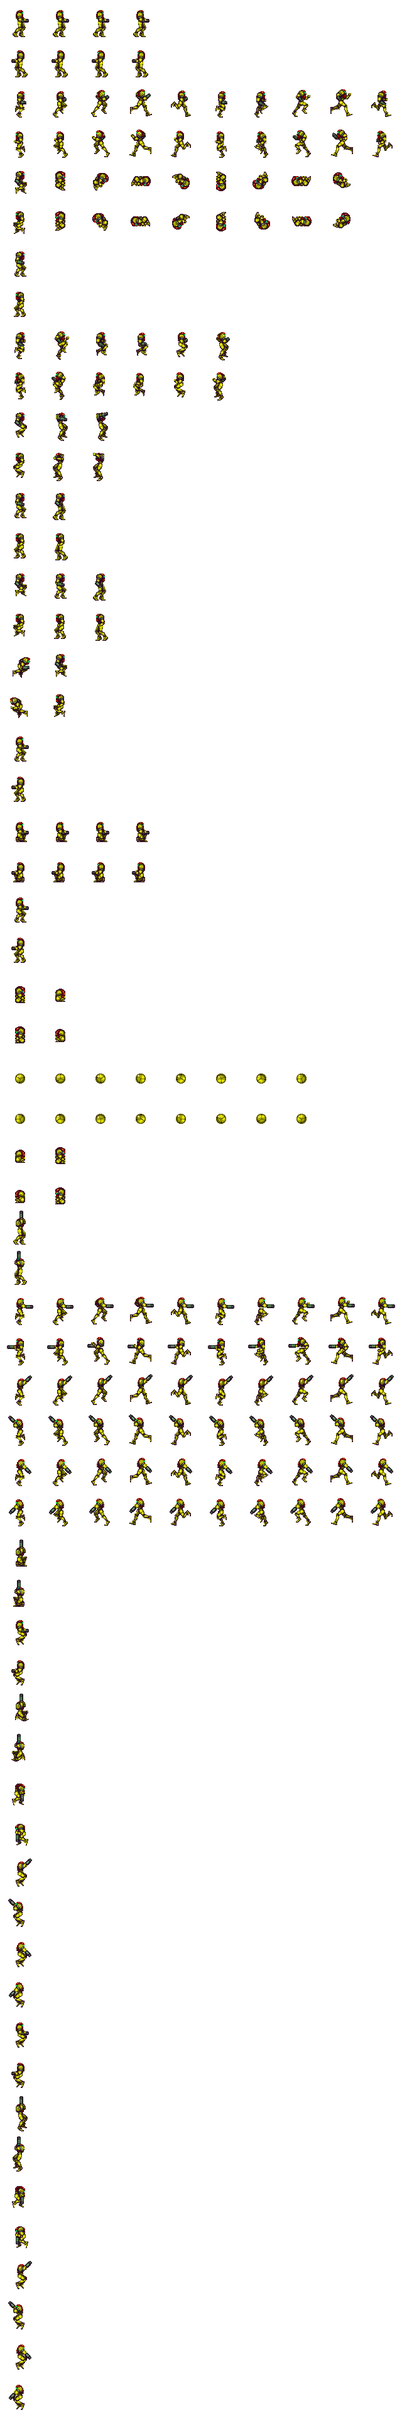
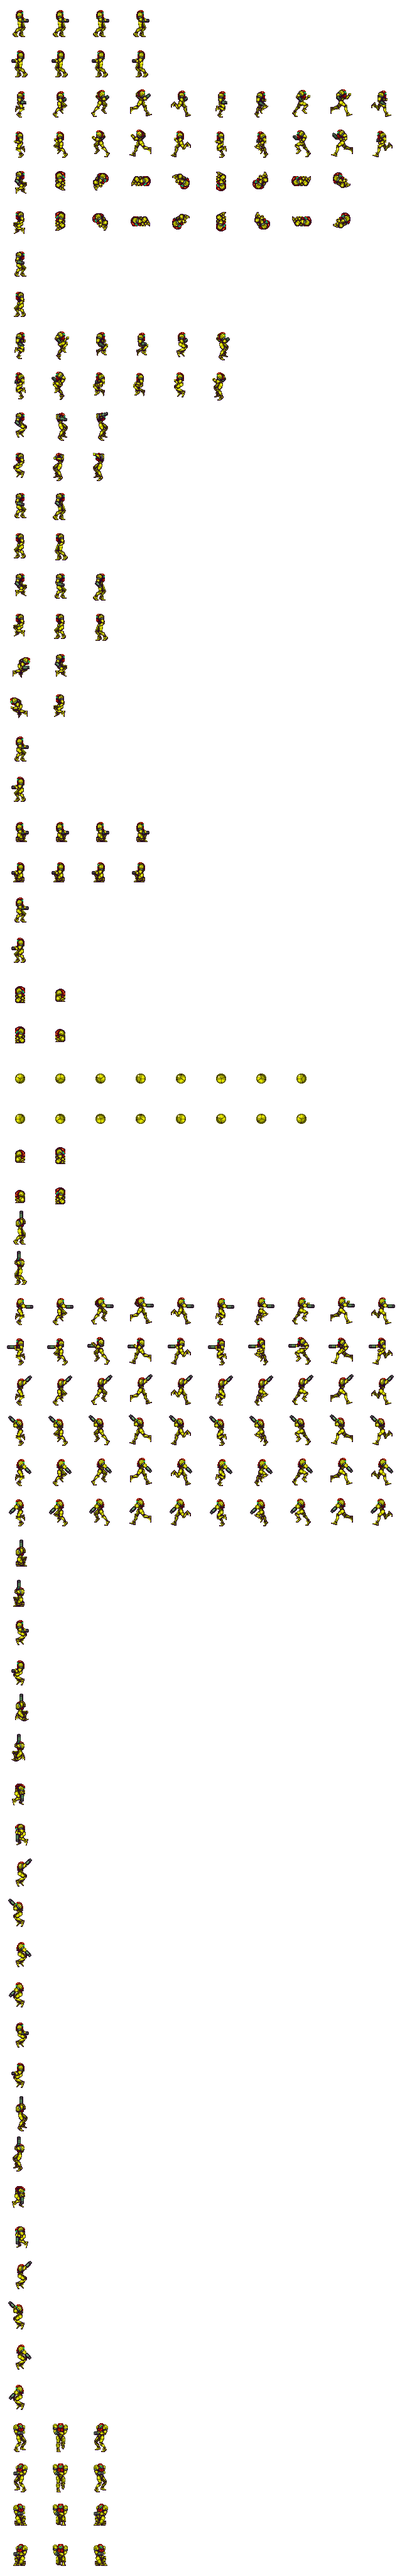
Etapa 3.2.7: anima viradas da Samus no chão e no ar

diff --git a/tests/core_test.c b/tests/core_test.c
@@ -933,6 +933,35 @@ static void beam_from_muzzle(void) {
     assert(!w.beams[0].active);
     puts("PASS beam leaves from the muzzle along the aim, never from inside a wall");
 }
+static void turn_animation(void) {
+    int side, air, t;
+    for (side = 0; side < 2; ++side) for (air = 0; air < 2; ++air) {
+        MmBody b;
+        MmInput opposite = {.axis = side ? 1 : -1, .jump_held = 1};
+        reset(); floor_at(30);
+        mm_body_init(&b, 100, 192, (MmRect){8, 8, 32, 48});
+        mm_tick(&world, &b, idle); b.facing_left = side;
+        if (air) {
+            mm_tick(&world, &b, (MmInput){.jump_pressed = 1, .jump_held = 1});
+            for (t = 0; t < 12; ++t) mm_tick(&world, &b, (MmInput){.jump_held = 1});
+        }
+        for (t = 0; t < MM_TURN_POSE_TICKS; ++t) {
+            mm_tick(&world, &b, opposite);
+            assert(b.turn_pose_ticks == MM_TURN_POSE_TICKS - t && b.turn_pose_left == side);
+            assert(b.grounded == !air);
+        }
+        mm_tick(&world, &b, opposite);
+        assert(!b.turn_pose_ticks && b.facing_left != side);
+        /* Spin and morph cancel a pending normal turn instead of displaying it. */
+        b.turn_pose_ticks = 3; b.spin_jumping = 1; b.grounded = 0; b.vy = -MM_JUMP;
+        mm_tick(&world, &b, (MmInput){.jump_held = 1});
+        assert(!b.turn_pose_ticks);
+        b.turn_pose_ticks = 3; b.ball = 1;
+        mm_tick(&world, &b, idle);
+        assert(!b.turn_pose_ticks);
+    }
+    puts("PASS turn animation: six ticks, old-facing strips on ground and in air; spin/ball cancel");
+}
 static void normal_jump_animation(void) {
     int side, short_hop;
     for (side = 0; side < 2; ++side) for (short_hop = 0; short_hop < 2; ++short_hop) {
@@ -984,6 +1013,7 @@ static void beam_impacts(void) {
     puts("PASS beam impact at swept wall contact, expires after 10 ticks; no impact off screen");
 }
 int main(void) {
+    turn_animation();
     normal_jump_animation();
     slope_spin_takeoff();
     beam_impacts();

diff --git a/src/core/world.c b/src/core/world.c
@@ -54,6 +54,7 @@ void mm_body_init(MmBody *b, int x, int y, MmRect hitbox)
     b->vx = b->vy = 0; b->hitbox = hitbox;
     b->grounded = b->facing_left = b->jumped = 0;
     b->speed = b->run_extra = b->turn = b->slide = b->walking = b->falling = 0;
+    b->turn_pose_ticks = b->turn_pose_left = 0;
     b->spin_jumping = b->shoot_pose_timer = 0;
     b->aim = MM_AIM_FORWARD;
     b->jump_frame = 0; b->jump_frame_ticks = 3;
@@ -276,6 +277,10 @@ static void steer(MmBody *b, int direction, int run_held)
         /* The tick the opposite way is pressed still steers the old way, as the original does; a body at
            rest on the ground stays put. A spin at rest just faces the new way. */
         b->turn = MM_TURN_TICKS - 1; b->turned = b->slide = 0;
+        if (!b->spin_jumping) {
+            b->turn_pose_ticks = MM_TURN_POSE_TICKS;
+            b->turn_pose_left = b->facing_left;
+        }
         direction = b->grounded && !b->walking ? 0 : facing;
     }
     if (b->grounded && !b->ball) {
@@ -342,6 +347,7 @@ void mm_tick(const MmWorld *w, MmBody *b, MmInput input)
     int moving_before_jump = b->vx != 0, wall_jump, was_grounded = b->grounded, was_crouching = b->crouching;
     int was_ball = b->ball;
     if (b->pose_timer) --b->pose_timer;
+    if (b->turn_pose_ticks) --b->turn_pose_ticks;
     b->jumped = input.jump_pressed && b->grounded;
     /* As in Super Metroid, only a jump while walking spins: from rest, even with a direction pressed on
        the same tick, the jump is a standing one. A jump during a slide, with no direction, still spins. */
@@ -415,6 +421,7 @@ void mm_tick(const MmWorld *w, MmBody *b, MmInput input)
     update_pose(b, was_grounded, was_crouching, was_ball);
     update_jump_animation(b);
     if (b->grounded) b->spin_jumping = 0;
+    if (b->ball || b->spin_jumping || b->pose == MM_POSE_WALL_KICK) b->turn_pose_ticks = 0;
     b->state = body_state(b);
     b->aim = body_aim(b, input);
 }

diff --git a/tests/rom_smoke.c b/tests/rom_smoke.c
@@ -11,6 +11,37 @@ __attribute__((noinline, used, externally_visible)) void mm_smoke_finish(void)
     while (1) SYS_doVBlankProcess();
 }
 
+static int turns(Game *g)
+{
+    int side, air, t, failed = 0;
+    for (side = 0; side < 2; ++side) for (air = 0; air < 2; ++air) {
+        int seen = 0;
+        g->player.facing_left = side;
+        if (air) {
+            for (t = 0; t < 12; ++t) {
+                game_update(g, (MmInput){.jump_pressed = t == 0, .jump_held = 1});
+                SYS_doVBlankProcess();
+            }
+        }
+        for (t = 0; t < MM_TURN_POSE_TICKS; ++t) {
+            game_update(g, (MmInput){.axis = side ? 1 : -1, .jump_held = 1});
+            if (g->player.turn_pose_ticks) {
+                if (g->animation != (air ? PLAYER_ANIM_TURN_AIR_R : PLAYER_ANIM_TURN_R) + side ||
+                    g->sprite->frameInd != (MM_TURN_POSE_TICKS - g->player.turn_pose_ticks) / 2) failed = 1;
+                seen |= 1 << g->sprite->frameInd;
+            }
+            SYS_doVBlankProcess();
+        }
+        /* Return to rest, ready for the next turn. */
+        for (t = 0; t < 100; ++t) {
+            game_update(g, (MmInput){0});
+            SYS_doVBlankProcess();
+        }
+        if (seen != 7 || !g->player.grounded || g->player.turn_pose_ticks) failed = 1;
+    }
+    return failed;
+}
+
 int main(bool hardReset)
 {
     static Game g;
@@ -109,6 +140,7 @@ int main(bool hardReset)
             if ((seen & 60) != 60 || !g.player.grounded) failed = 1;
         }
     }
+    failed |= turns(&g);
     /* A downward beam just above the floor must render all five impact frames, then hide. */
     mm_weapon_init(&g.weapon);
     g.weapon.beams[0] = (MmBeam){.active = 1, .x = g.player.x + 20 * MM_UNIT,

diff --git a/src/game.c b/src/game.c
@@ -83,6 +83,11 @@ static u16 player_row(const MmBody *p)
     };
     u16 side = p->facing_left ? 1 : 0, row;
     bool up = p->aim == MM_AIM_UP || p->aim == MM_AIM_DIAG_UP;
+    /* Turn strips are indexed by the OLD facing. Aim/shoot keep their cannon pose,
+       and a ball, spin or wall kick keeps its own animation. */
+    if (p->turn_pose_ticks && !p->ball && !p->spin_jumping && p->pose != MM_POSE_WALL_KICK &&
+        p->pose != MM_POSE_UNMORPH && p->aim == MM_AIM_FORWARD && !p->shoot_pose_timer)
+        return (p->grounded ? PLAYER_ANIM_TURN_R : PLAYER_ANIM_TURN_AIR_R) + p->turn_pose_left;
     if ((p->aim == MM_AIM_FORWARD && !p->shoot_pose_timer) || p->ball || p->pose == MM_POSE_UNMORPH ||
         p->pose == MM_POSE_SPIN || p->pose == MM_POSE_WALL_KICK)
         row = plain_row(p);
@@ -129,7 +134,10 @@ static void render(Game *g)
             SPR_setAnim(g->sprite, animation);
         g->animation = animation;
     }
-    if (animation == PLAYER_ANIM_JUMP_UP_R + side) {
+    if ((animation & ~1) == PLAYER_ANIM_TURN_R || (animation & ~1) == PLAYER_ANIM_TURN_AIR_R) {
+        SPR_setAutoAnimation(g->sprite, FALSE);
+        SPR_setFrame(g->sprite, (MM_TURN_POSE_TICKS - g->player.turn_pose_ticks) / 2);
+    } else if (animation == PLAYER_ANIM_JUMP_UP_R + side) {
         /* These frames follow the simulation, including PAL's extra ticks, rather than looping. */
         SPR_setAutoAnimation(g->sprite, FALSE);
         SPR_setFrame(g->sprite, g->player.jump_frame);

diff --git a/inc/core/world.h b/inc/core/world.h
@@ -9,6 +9,7 @@
 #define MM_WALK_SNAP 480 /* ...and past 1.875 the walk jumps to MM_SPEED: full speed on the 11th tick. */
 #define MM_DECEL 128 /* -0.5 px/tick when letting go on the ground, turning around or reversing in the air. */
 #define MM_TURN_TICKS 7 /* Turning around on the ground or in a normal jump or fall, the tick it starts on included. */
+#define MM_TURN_POSE_TICKS 6 /* Three original turn frames, two simulation ticks each. */
 #define MM_RUN_ACCEL 16 /* Dash: +1/16 px/tick each tick... */
 #define MM_RUN_EXTRA_MAX 512 /* ...up to +2 (4.75 px/tick in all) after 32 ticks. */
 #define MM_AIR_ACCEL 192 /* +0.75 px/tick in the air and in the ball. */
@@ -62,6 +63,7 @@ typedef struct {
     int grounded, facing_left, jumped;
     int speed, run_extra; /* Base speed along the facing direction and the dash bonus, Q24.8 px/tick. */
     int turn, turned; /* Ticks left turning around, and whether the body already faces the new way. */
+    int turn_pose_ticks, turn_pose_left; /* Visual turn, facing at its start (independent of braking). */
     int slide, walking; /* Ground: sliding after letting go, already walking. */
     int falling; /* In the air without a jump: walked off a ledge. */
     int spin_jumping;

diff --git a/scripts/build_player_sheet.py b/scripts/build_player_sheet.py
@@ -35,7 +35,7 @@ GROUND_ROW = 58
 # The ball and its transitions sit on the same row: the ball box keeps the standing feet, in the air too.
 GROUNDED = {'STAND', 'WALK', 'LAND', 'SPIN_LAND', 'CROUCH_DOWN', 'CROUCH', 'STAND_UP',
             'MORPH', 'BALL', 'UNMORPH', 'AIM_UP', 'WALK_SHOOT', 'WALK_AIM_UP', 'WALK_AIM_DOWN',
-            'CROUCH_AIM_UP'}
+            'CROUCH_AIM_UP', 'TURN'}
 # Actions aligned frame by frame instead of as a whole. The extracted ball frames drift up and down by
 # a pixel from the sheet grid; a rolling ball must not bounce.
 ALIGN_EACH_FRAME = {'BALL'}
@@ -79,6 +79,9 @@ ANIMATIONS = [
     ('FALL_AIM_DOWN', '2D:1', '2E:1', 'D'),
     ('FALL_AIM_DIAG_UP', '6D', '6E', 'DU'),
     ('FALL_AIM_DIAG_DOWN', '6F', '70', 'DD'),
+    # 3.2.7: labels name the facing at the start of the turn.
+    ('TURN', '25', '26'),
+    ('TURN_AIR', '2F', '30'),
 ]
 
 

diff --git a/inc/player_anim.h b/inc/player_anim.h
@@ -65,6 +65,10 @@ enum {
     PLAYER_ANIM_FALL_AIM_DIAG_UP_L, /* pose 6E */
     PLAYER_ANIM_FALL_AIM_DIAG_DOWN_R, /* pose 6F */
     PLAYER_ANIM_FALL_AIM_DIAG_DOWN_L, /* pose 70 */
+    PLAYER_ANIM_TURN_R, /* pose 25 */
+    PLAYER_ANIM_TURN_L, /* pose 26 */
+    PLAYER_ANIM_TURN_AIR_R, /* pose 2F */
+    PLAYER_ANIM_TURN_AIR_L, /* pose 30 */
     PLAYER_ANIM_COUNT
 };
 
@@ -130,6 +134,10 @@ static const signed char player_muzzle[PLAYER_ANIM_COUNT][2] = {
     {2, 1}, /* 6E */
     {36, 27}, /* 6F */
     {4, 27}, /* 70 */
+    {27, 11}, /* 25 */
+    {9, 17}, /* 26 */
+    {27, 11}, /* 2F */
+    {9, 17}, /* 30 */
 };
 
 #endif /* MM_PLAYER_ANIM_H */

diff --git a/docs/PLANO.md b/docs/PLANO.md
@@ -98,7 +98,7 @@ pula, tempos das transições e dos pousos do original.
 | # | Etapa | Entrega | Teste |
 |---|-------|---------|-------|
 | 3.1 ✅ | Pipeline de sprite | Pranchas originais → PNG indexado → `.res` (`scripts/extract_*.py`), convenções em `docs/SPRITES.md`. Extração feita e todos os `.res` compilam no `rescomp`; a Samus carrega no jogo desde a 3.2.1 | Sprite novo carrega seguindo o doc |
-| 3.2 ⏭ | Animações atuais com os sprites originais | Trocar a folha Dread (`player_sprite`) pelas poses de `res/images/samus-original-sgdk/poses` em tudo o que o código já faz. Dividida nas sub-etapas 3.2.1–3.2.7 abaixo, cada uma com commit próprio | Ver a tabela da 3.2 |
+| 3.2 ✅ | Animações atuais com os sprites originais | Folha Dread substituída pelas poses de `res/images/samus-original-sgdk/poses`. Sub-etapas 3.2.1–3.2.7 concluídas, com commits próprios | Ver a tabela da 3.2 |
 | 3.3 | Animações completas | Virar, mirar (cima/baixo/diagonal), agachar, bola, spin | Todas visíveis em sequência |
 | 3.4 | Hitbox por estado | `collision_size` varia por estado | Sem prender na parede ao trocar de estado |
 | 3.5 | Orçamento de VRAM | Alocação automática de VRAM / streaming de tiles do sprite | `SPR_showVRAMUsage` dentro do orçamento |
@@ -160,7 +160,13 @@ perda de cores (ver custo em `docs/SPRITES.md`). Teste: regressões do núcleo
 com gcc, `beam_impacts()` para contato varrido/expiração/saída da tela, build
 SGDK e `SMOKE PASS` no BlastEm, incluindo os cinco quadros do impacto na ROM.
 
-**3.2.7 Virar.** Animação curta de virada antes de trocar a pose de lado.
+**3.2.7 Virar** ✅. Três quadros de dois ticks, medidos no Mesen (`turn`,
+`turn_moving`, `air_turn_rest`): `25/26` no chão e `2F/30` no ar, escolhidos
+pelo lado inicial. O núcleo guarda a duração visual separada da frenagem;
+velocidades e transições físicas não mudam. O render retorna à pose normal
+ao terminar e mantém prioridade para mira/tiro, bola, giro e chute de parede.
+Teste: `turn_animation()` no núcleo; a ROM confere as quatro tiras e seus três
+quadros, com `SMOKE PASS` via API GDB do BlastEm. Custo em `docs/SPRITES.md`.
 
 **Fora da 3.2.** Ficam para a 3.3:
 - Mira diagonal parado (`05`–`08`) e agachado (`71`–`74`): no SNES vem de L/R, e o controle de 3 botões não tem botões livres. **Decidido:** no controle de 6 botões, L = Z (mirar para baixo) e R = Y (mirar para cima); X fica livre para cancelar item. Ainda não implementado no código.
@@ -170,7 +176,8 @@ SGDK e `SMOKE PASS` no BlastEm, incluindo os cinco quadros do impacto na ROM.
 - A pose `16` (pulo parado, esquerda, mirando para cima) não tem faixa própria: são os quadros 2–3 da tira `15`.
 - A faixa da `69` diz "Facing left - aiming up-right", provável erro de digitação ("Facing right").
 
-> **Prioridade (2026-10-12)**: a 3.2 vem antes de qualquer outra implementação.
+> **Prioridade de 2026-10-12 atendida em 2026-10-18:** a 3.2 está concluída.
+> Retomar a próxima pendência na ordem do plano: 2.8.3 (agachar, bola e pousos).
 
 #### Extração (revisão de 2026-10-12)
 

diff --git a/CHANGELOG.md b/CHANGELOG.md
@@ -10,6 +10,28 @@ O registro detalhado começa em 18/10/2026. A entrada anterior abaixo foi
 reconstituída do commit indicado; o histórico anterior completo permanece no Git
 (`git log`) e as entregas por etapa estão em [docs/PLANO.md](docs/PLANO.md).
 
+## 2026-10-18 15:47:57 −03:00 — Virada da Samus (etapa 3.2.7)
+
+### Adicionado
+
+- Animação de virada original nos dois lados: `25/26` no chão e `2F/30` no ar.
+  São três quadros de dois ticks, com a tira escolhida pelo lado inicial da
+  Samus, conforme medição no Mesen. Depois, retorna à pose de movimento.
+- Regressões de duração, orientação e cancelamento por giro/bola; teste na ROM
+  verifica os três quadros, nos dois lados, no chão e durante o pulo.
+
+### Melhorado
+
+- A transição visual de direção acompanha a simulação sem alterar aceleração,
+  frenagem ou velocidade. Mira e tiro mantêm suas poses; bola, giro e chute de
+  parede mantêm suas animações próprias.
+- `AGENTS.md` exige teste da ROM no BlastEm via API GDB, sem skills de controle
+  do computador nem automação da interface, com sessão oculta e isolada.
+- Concluída a sequência 3.2.1–3.2.7 de importação das animações atuais.
+
+**Validação:** medição no Mesen (`turn`, `turn_moving`, `air_turn_rest`), geração
+da folha, testes do núcleo com gcc, build SGDK e `SMOKE PASS` pela API do BlastEm.
+
 ## 2026-10-18 15:41:13 −03:00 — Descida do pulo sem giro
 
 ### Corrigido

diff --git a/docs/SPRITES.md b/docs/SPRITES.md
@@ -91,6 +91,25 @@ A paleta é `pal_samus_power_suit` (um `PALETTE` no `res/resources.res`). A folh
 
 ## Outras pranchas
 
+### Virada (3.2.7)
+
+A folha inclui `TURN` (`25/26`, pés alinhados) e `TURN_AIR` (`2F/30`).
+Os nomes das poses indicam o lado **inicial** da Samus. O núcleo mantém esse
+lado e um contador visual de seis ticks; o render mostra os quadros 0, 1 e 2
+por dois ticks cada, sem loop do SGDK. A frenagem continua usando `turn` e
+`turned`, com as velocidades já medidas. Mira/tiro têm prioridade visual,
+preservando a origem do canhão; bola, giro e chute não exibem a virada normal.
+
+Medida reproduzível: cenários `turn`, `turn_moving` e `air_turn_rest` de
+`scripts/sm_reference.ps1`, colunas `pose`, `anim_frame` e `anim_timer`.
+No chão o original usa `25`, no ar `2F`, ambos por 2+2+2 ticks.
+
+Custo: quatro linhas/12 quadros na folha, dois inteiros adicionais no núcleo
+(8 bytes de RAM no 68000). Os novos quadros têm até 18 tiles, abaixo do máximo
+já reservado pela Samus; sem sprite ou paleta adicional em VRAM. Ciclos de CPU
+ainda não medidos em hardware. `build_player_sheet.py` valida os pixels gerados;
+o teste da ROM verifica os três quadros nas quatro tiras pelo BlastEm via API.
+
 ### Pulo normal: sequência de quadros (correção de 18/10/2026)
 
 O pulo normal usa a tira `4D/4E` na subida e na descida. `29/2A` é a queda

diff --git a/AGENTS.md b/AGENTS.md
@@ -18,6 +18,7 @@ O plano de trabalho está em [`docs/PLANO.md`](docs/PLANO.md) — siga as etapas
 
 1. Trabalhe em uma etapa do plano por vez.
 2. Compile e teste a etapa até estar funcionando.
+   - **Os testes da ROM devem ser feitos no BlastEm via API/protocolo GDB**, usando `python scripts/smoke_test.py` após a build `-SmokeTest` (ver `docs/BUILD.md`). Não use skills de controle do computador, cliques, teclado ou automação da interface do emulador. Execute a sessão de teste oculta e encerre apenas o processo iniciado pelo teste, sem interferir no uso do PC. Testes do núcleo no host complementam, mas não substituem, a validação da ROM no BlastEm.
 3. **A cada etapa testada e funcionando, faça commit e push.** Não acumule várias etapas em um único commit e não faça commit de etapa quebrada ou não testada.
    - Mensagem de commit clara, descrevendo a etapa (ex.: `Etapa 0.3: corrige recursão em stopSoundJump`).
    - Depois do commit, execute `git push`.

diff --git a/README.md b/README.md
@@ -8,6 +8,9 @@ Pipeline de extração e importação de sprites: [`docs/SPRITES.md`](docs/SPRIT
 
 Histórico de correções, melhorias e adições: [`CHANGELOG.md`](CHANGELOG.md).
 
+A Samus usa animações originais de movimento, pulo, agachar, bola, mira e virada.
+A virada tem três quadros, tanto no chão quanto no ar, preservando a física do movimento.
+
 Small project with the intention of porting Super Metroid for Mega Drive / Sega Genesis.
 
 Update: simple tile collision system implemented. 
